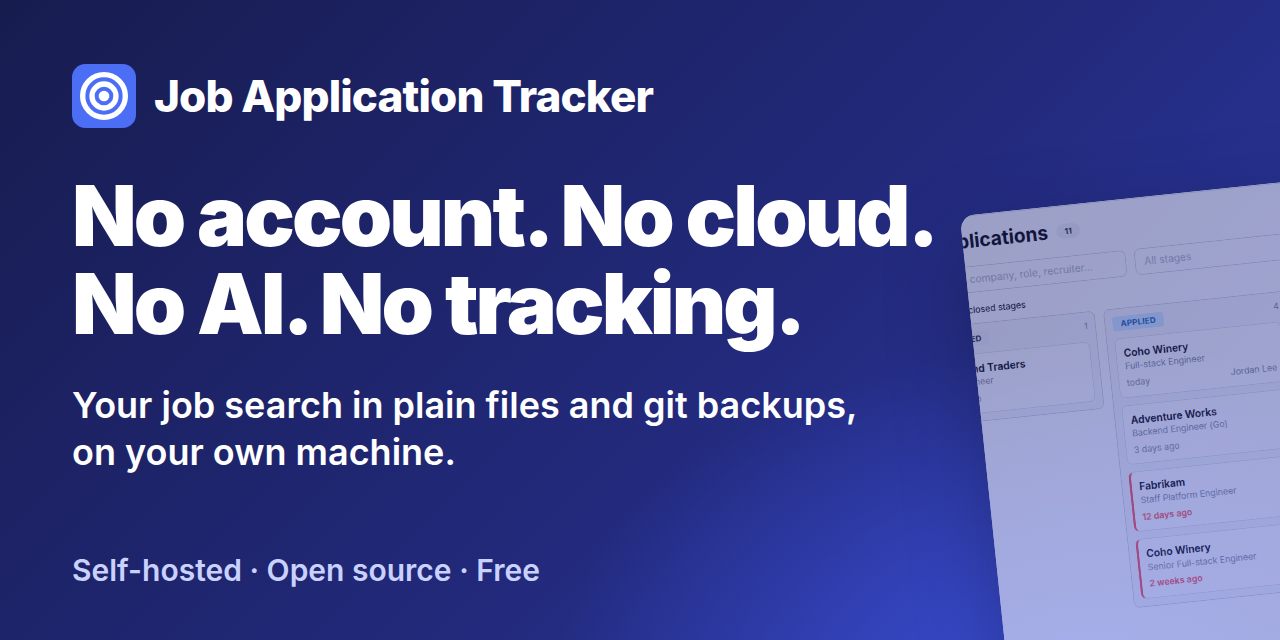
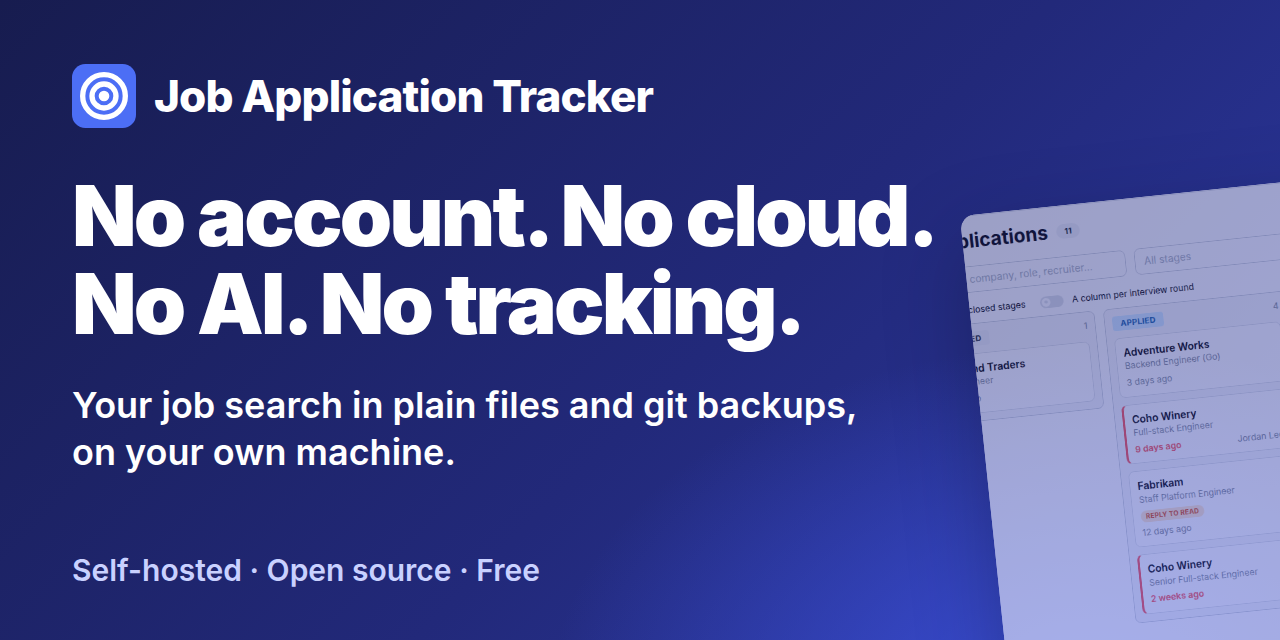
docs: retake the board screenshot with every column, and the card from it

diff --git a/scripts/social_preview/card.html b/scripts/social_preview/card.html
@@ -69,7 +69,7 @@
         opacity: 0.55;
       }
       .b .shot img {
-        width: 1100px;
+        width: 1554px;
         margin-left: -240px;
         margin-top: -40px;
         height: auto;
@@ -115,7 +115,7 @@
         height: 448px;
       }
       .a .shot img {
-        width: 1300px;
+        width: 1838px;
         margin-left: -213px;
         margin-top: -150px;
         height: auto;
